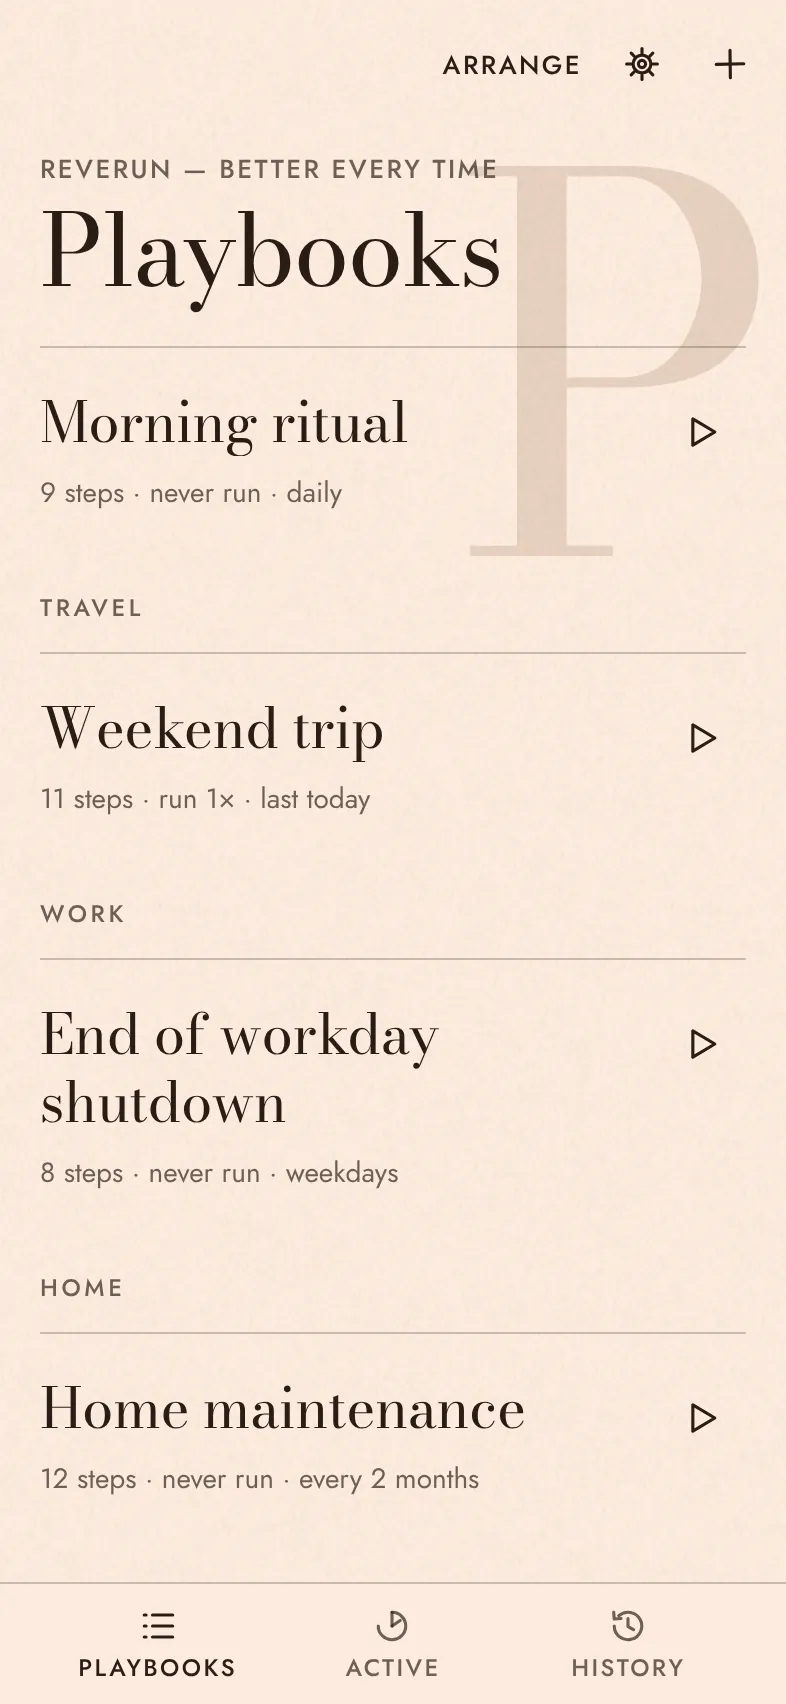
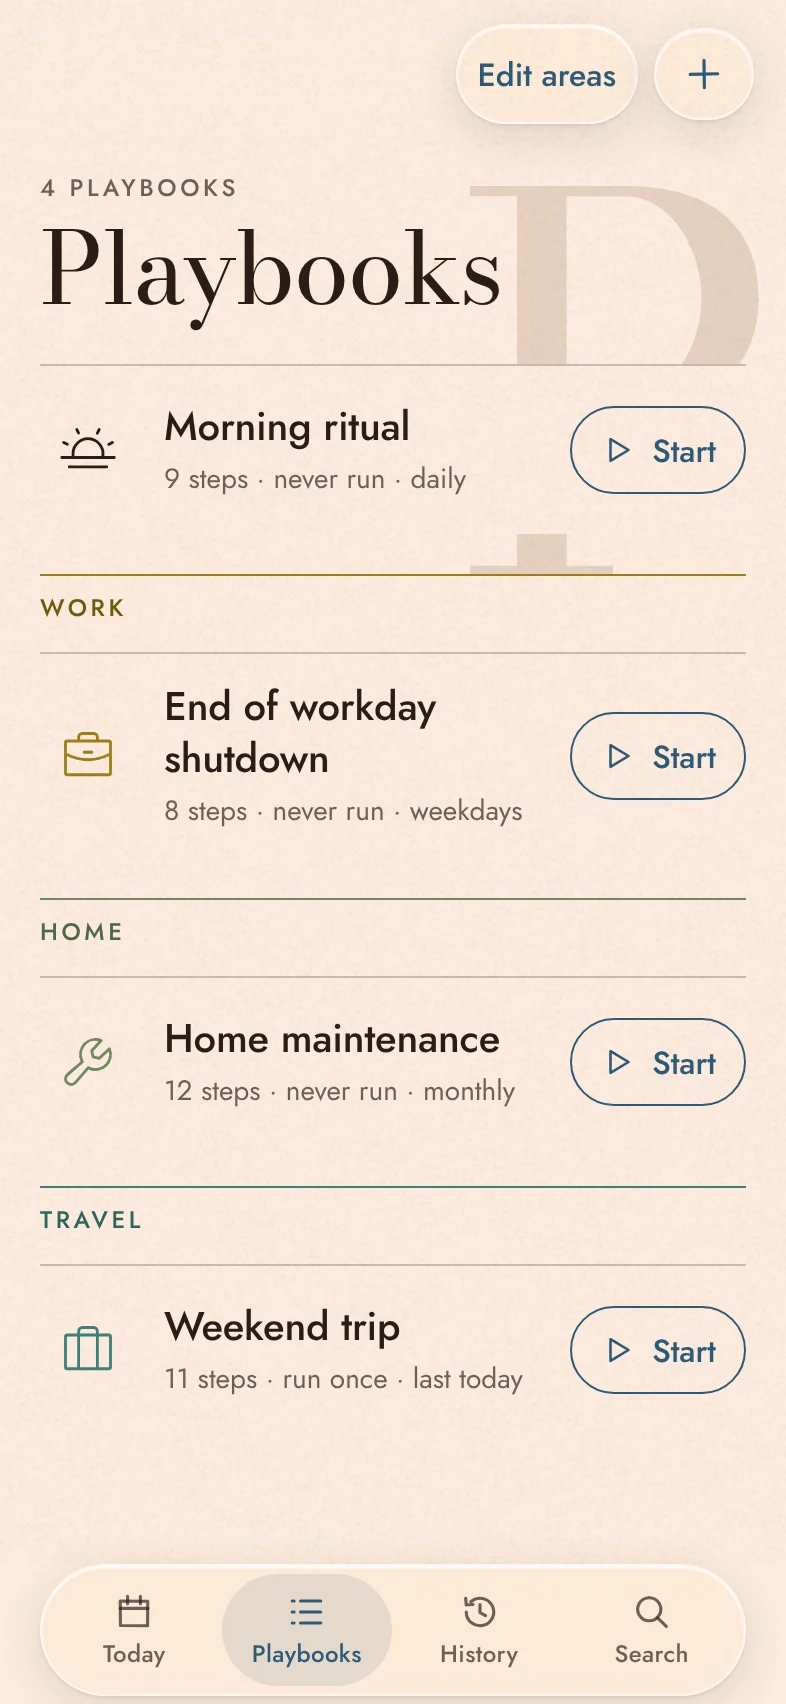
Reverun: screens from the current build
The library with icons and coloured areas, a step as a card, the run
wrap-up with its switches, and the dark Run finished page (in place of
the plain run list).

Claude-Session: https://claude.ai/code/session_01HKzTyEMngof42ZDZpQULKX

diff --git a/index.html b/index.html
@@ -165,26 +165,26 @@
       <ul class="screens" aria-label="Reverun screens">
         <li>
           <figure>
-            <div class="phone"><img src="assets/screens/reverun-playbooks.webp" width="393" height="852" loading="lazy" decoding="async" alt="The playbook library: Morning ritual, Weekend trip, End of workday shutdown and Home maintenance, filed by area."></div>
+            <div class="phone"><img src="assets/screens/reverun-playbooks.webp" width="393" height="852" loading="lazy" decoding="async" alt="The playbook library: Morning ritual, End of workday shutdown, Home maintenance and Weekend trip, each with its icon, filed by coloured area, with a Start button beside each."></div>
             <figcaption class="label">Your playbooks</figcaption>
           </figure>
         </li>
         <li>
           <figure>
-            <div class="phone"><img src="assets/screens/reverun-run.webp" width="393" height="852" loading="lazy" decoding="async" alt="A Weekend trip run in progress, five of eleven steps checked off."></div>
-            <figcaption class="label">A run</figcaption>
-          </figure>
-        </li>
-        <li>
-          <figure>
-            <div class="phone"><img src="assets/screens/reverun-card.webp" width="393" height="852" loading="lazy" decoding="async" alt="A step shown as a card: test the smoke alarms, with an illustration and a button to mark it done."></div>
+            <div class="phone"><img src="assets/screens/reverun-card.webp" width="393" height="852" loading="lazy" decoding="async" alt="A step shown as a card in a Home maintenance run, three of ten done: test the smoke alarms, with an illustration and a button to mark it done."></div>
             <figcaption class="label">Step by step</figcaption>
           </figure>
         </li>
         <li>
           <figure>
-            <div class="phone"><img src="assets/screens/reverun-review.webp" width="393" height="852" loading="lazy" decoding="async" alt="The review at the end of a run: what should be better next time, with the changes to carry forward to the playbook."></div>
-            <figcaption class="label">Carry forward</figcaption>
+            <div class="phone"><img src="assets/screens/reverun-review.webp" width="393" height="852" loading="lazy" decoding="async" alt="The wrap-up at the end of a Weekend trip run: the note, renames and new step from this run, each with a switch to keep it for next time, and a button to update the playbook to version 2."></div>
+            <figcaption class="label">Keep what worked</figcaption>
+          </figure>
+        </li>
+        <li>
+          <figure>
+            <div class="phone"><img src="assets/screens/reverun-finished.webp" width="393" height="852" loading="lazy" decoding="async" alt="Run finished, on a dark page with a large W: eleven of eleven done, took 24 minutes, every step done, six changes carried into the playbook, now version 2."></div>
+            <figcaption class="label">Run finished</figcaption>
           </figure>
         </li>
       </ul>
